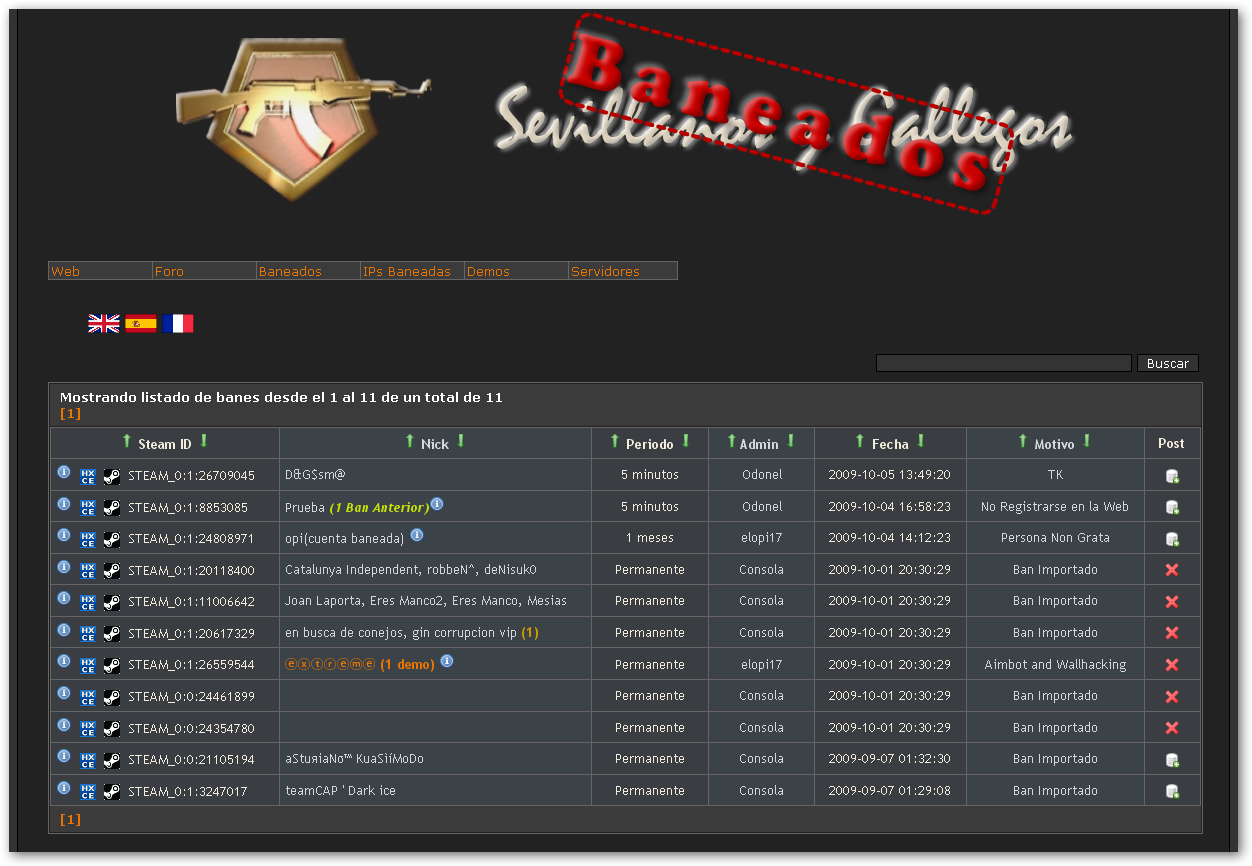
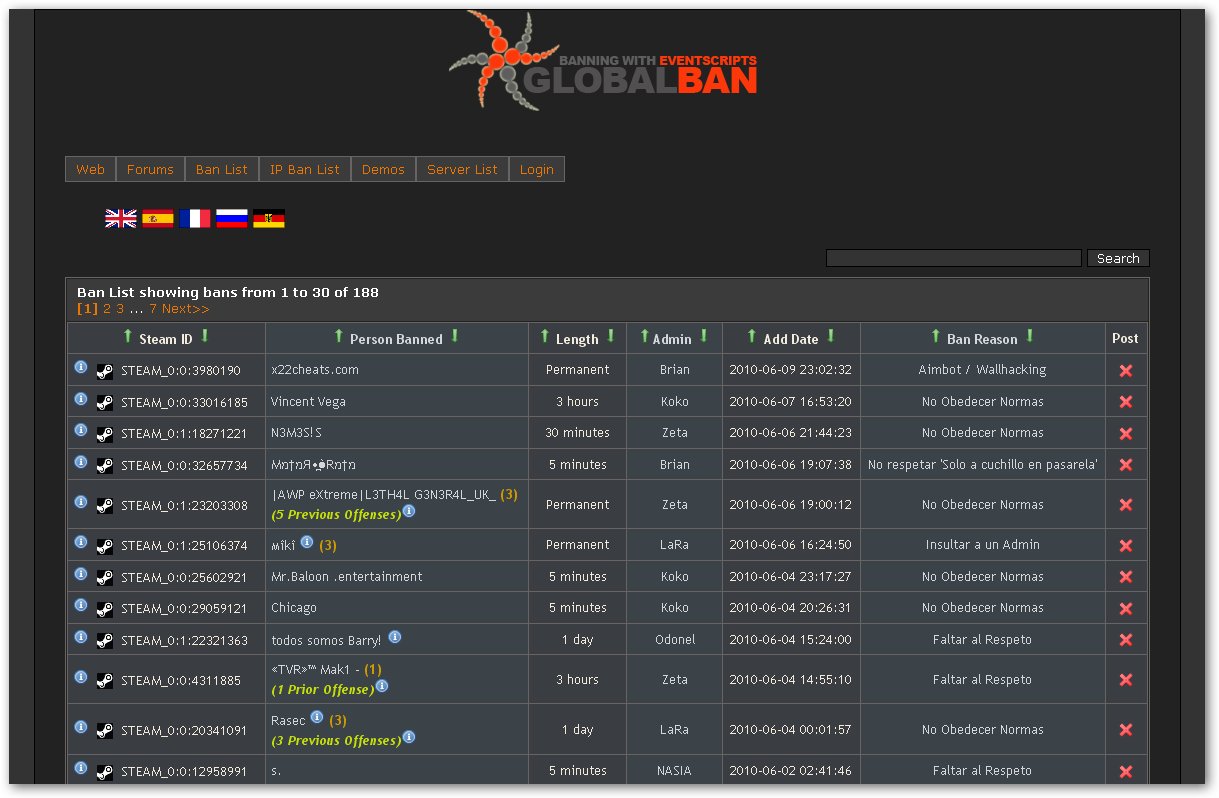
Fix some ban list history table width and nowrap column Fix parse ; with "empty string" in Players Game Nick Names to prevent commands inyection. (Reporter by )

Changed region(s): [[0.0, 0.0, 0.9975, 0.9925], [0.4053, 0.8722, 0.4364, 0.9023], [0.4053, 0.812, 0.4364, 0.8421]]

diff --git a/globalban-spanish/banned/banlist.php b/globalban-spanish/banned/banlist.php
@@ -368,11 +368,11 @@ if(count($bannedUsers) > 0) {
       $information2 .= "<div id='tableHead'>";
       $information2 .= "<div style='color:#FFFFFF'><b>".$LAN_BANLIST_031."</b></div>";
       $information2 .= "</div>";
-      $information2 .= "<table class='bordercolor' width='800px' cellspacing='1' cellpadding='5' border='0' style='margin-top: 1px;'>";
+      $information2 .= "<table class='bordercolor' width='1000px' cellspacing='1' cellpadding='5' border='0' style='margin-top: 1px;'>";
 
 	  $information2 .= "<tr>";
 	  $information2 .= " <th class='colColor1' width='1%' nowrap align='center'>".$LAN_BANLIST_014."</th>";
-	  $information2 .= " <th class='colColor1' width='1%' nowrap align='center'>".$LAN_BANLIST_020."</th>";
+	  $information2 .= " <th class='colColor1' width='15%' nowrap align='center'>".$LAN_BANLIST_020."</th>";
 	  $information2 .= " <th class='colColor2' width='1%' nowrap align='center'>".$LAN_BANLIST_016."</th>";
 	  $information2 .= " <th class='colColor1' width='1%' nowrap align='center'>".$LAN_BANLIST_017."</th>";
 	  $information2 .= " <th class='colColor2' width='1%' nowrap align='center'>".$LAN_BANLIST_018."</th>";
@@ -415,7 +415,7 @@ if(count($bannedUsers) > 0) {
 		  $information2 .= "  <td class='colColor1' align='center'>".$banHistUser->getReason()."</td>";
 		  $information2 .= "  <td class='colColor2' nowrap align='center'>".$banLengthHist->getReadable()."</td>";
 		  $information2 .= "  <td class='colColor1' nowrap align='center'>".$banHistUser->getBanner()."</td>";
-		  $information2 .= "  <td class='colColor2' nowrap align='center'>".$addDateHist."  ".$addTimeHist."</td>";
+		  $information2 .= "  <td class='colColor2' align='center'>".$addDateHist."  ".$addTimeHist."</td>";
 		  // $information2 .= "  <td class='colColor1' nowrap align='center'>".$expireDateHist."  ".$expireTimeHist."</td>";
 
 		  if($banHistUser->getWebpage() != "") {
@@ -465,7 +465,7 @@ if(count($bannedUsers) > 0) {
         ?>
 		<?php echo str_replace(array("\t"," "), "", $bannedUser->getSteamId())?>
 		<?php
-		 }  
+		 }
         ?>
 		</td>
 		<td class="colColor2" nowrap>
@@ -473,12 +473,12 @@ if(count($bannedUsers) > 0) {
 
 		  // Player name with link to the demo
 		  if($bannedUser->getDemoCount() > 0) {
-          	?><a href='index.php?page=demos&searchText=<?php echo $bannedUser->getSteamId()?>#_demos&lg=<?php echo $LANGUAGE; ?>'><b><?php echo $bannedUser->getName()?> <?php echo $LAN_BANLIST_060 ?><?php echo $bannedUser->getDemoCount()?> <?php echo $LAN_BANLIST_061 ?></b></a><?php
+          	?><a href='index.php?page=demos&searchText=<?php echo $bannedUser->getSteamId()?>#_demos&lg=<?php echo $LANGUAGE; ?>'><b><?php echo str_replace(array("\"","\r\n", "\n", "\r"), "&quot;", $bannedUser->getName())?> <?php echo $LAN_BANLIST_060 ?><?php echo $bannedUser->getDemoCount()?> <?php echo $LAN_BANLIST_061 ?></b></a><?php
           } else {
             	?><?php echo str_replace(array("\"","\r\n", "\n", "\r"), "&quot;", $bannedUser->getName())?><?php
           }
           if($comments != null || $comments != "") {
-            ?>&nbsp;<img src="images/information.png" style="cursor:help" onmouseover="Tip('<?php echo $LAN_BANLIST_027?>:<br/><?php echo $comments ?>', WIDTH, 300, SHADOW, true, FADEIN, 300, FADEOUT, 300, CLICKCLOSE, true, BGCOLOR, getStyleBackgroundColor('container'), BORDERCOLOR, getStyleBackgroundColor('banlistTable'))"><?php
+            ?>&nbsp;<img src="images/information.png" style="cursor:help" onmouseover="Tip('<?php echo $LAN_BANLIST_027?>:<br/><br/><?php echo $comments ?><br/>', WIDTH, 500, SHADOW, true, FADEIN, 300, FADEOUT, 300, OFFSETX, -100, CLICKCLOSE, true, BGCOLOR, getStyleBackgroundColor('container'), BORDERCOLOR, getStyleBackgroundColor('banlistTable'))"><?php
           }
           if($bannedUser->getKickCounter() > 0) {
             ?>&nbsp;<span class="kickCounter">(<?php echo $bannedUser->getKickCounter()?>)</span><?php
@@ -492,7 +492,7 @@ if(count($bannedUsers) > 0) {
 		  		$bannedPreviously = " (".$bannedUser->getOffenses()." ".$LAN_BANLIST_025.")";
           }
 		  if($bannedUser->getOffenses() > 0) {
-			?><div><span class="bannedPreviously"><?php echo $bannedPreviously ?></span><img src="images/information.png" style="cursor:help" onmouseover="Tip('<?php echo $information2?>', WIDTH, 800, SHADOW, true, FADEIN, 300, FADEOUT, 300, STICKY, 1, OFFSETX, -20, CLOSEBTN, true, CLICKCLOSE, true, BGCOLOR, getStyleBackgroundColor('container'), BORDERCOLOR, getStyleBackgroundColor('banlistTable'))"></div><?php
+			?><div><span class="bannedPreviously"><?php echo $bannedPreviously ?></span><img src="images/information.png" style="cursor:help" onmouseover="Tip('<?php echo $information2?>', WIDTH, 1000, SHADOW, true, FADEIN, 300, FADEOUT, 300, STICKY, 1, OFFSETX, -230, CLOSEBTN, true, CLICKCLOSE, true, BGCOLOR, getStyleBackgroundColor('container'), BORDERCOLOR, getStyleBackgroundColor('banlistTable'))"></div><?php
 		  }
 		?>
 		</td>

diff --git a/globalban-spanish/banned/index.php b/globalban-spanish/banned/index.php
@@ -30,7 +30,7 @@ require_once(ROOTDIR."/include/php4functions.php");
 // ############################### INIT #######################################
 $db = new Database(); // Just about every page makes a database call
 $config = new Config(); // All configuration variables are contained in this object
-$version = "v3.4.1 r129";
+$version = "v3.4.1 r130";
 $copyright = "Developed by <a href='mailto:lsjonasson@gmail.com'>Soynuts</a>, <a href='mailto:apadrones@gmail.com'>Odonel</a> and <a href='mailto:fantole@gmail.com'>Fantole</a> &copy;2007-2010";
 $translators = "Translators: French by <a href='mailto:alpha.cssupport@gmail.com'>Owned</a>, Russian by <a href='http://universal-games.ru/'>Co0l</a>, Spanish by <a href='mailto:apadrones@gmail.com'>Odonel</a> and German by <a href='http://www.clan-holyshit.de/'>Neo@Bln + RST_Freak</a>";
 // ############################################################################

diff --git a/globalban-spanish/banned/processWebBan.php b/globalban-spanish/banned/processWebBan.php
@@ -53,6 +53,10 @@ if($allowedToBan) {
 
   $lengthInSec = $length->getLengthInSeconds();
   $now = time() + $lengthInSec;
+  
+  // Make sure special chars for MySQL are escaped
+  $bannedName = addslashes($bannedName);
+  $bannedName = str_ireplace(array("\"", "\r\n", "\n", "\r", ";"), "", $bannedName); // Remove ; to prevent kick command inyection like name; quit or ; _restart
 
   // Members can add, but the ban does not take immediate affect (must be approved)
   // All others can ban and it will become active

diff --git a/globalban-spanish/banned/processWebBanUpdate.php b/globalban-spanish/banned/processWebBanUpdate.php
@@ -44,6 +44,11 @@ if($member || $admin || $banManager || $fullPower) {
 }
 
 if($allowedToBan) {
+    
+    // Make sure special chars for MySQL are escaped
+    $bannedUser = addslashes($bannedUser);
+    $bannedUser = str_ireplace(array("\"", "\r\n", "\n", "\r", ";"), "", $bannedUser); // Remove ; to prevent kick command inyection like name; quit or ; _restart
+
   
     $banQueries = new BanQueries();
 

diff --git a/globalban-spanish/banned/es/processServerBan.php b/globalban-spanish/banned/es/processServerBan.php
@@ -53,6 +53,7 @@ if($hash == $config->matchHash) {
 
   // Make sure special chars for MySQL are escaped
   $nameOfBanned = addslashes($nameOfBanned);
+  $nameOfBanned = str_ireplace(array("\"", "\r\n", "\n", "\r", ";"), "", $nameOfBanned); // Remove ; to prevent kick command inyection like name; quit or ; _restart
 
   $banQueries = new BanQueries();
   $userQueries = new UserQueries();
